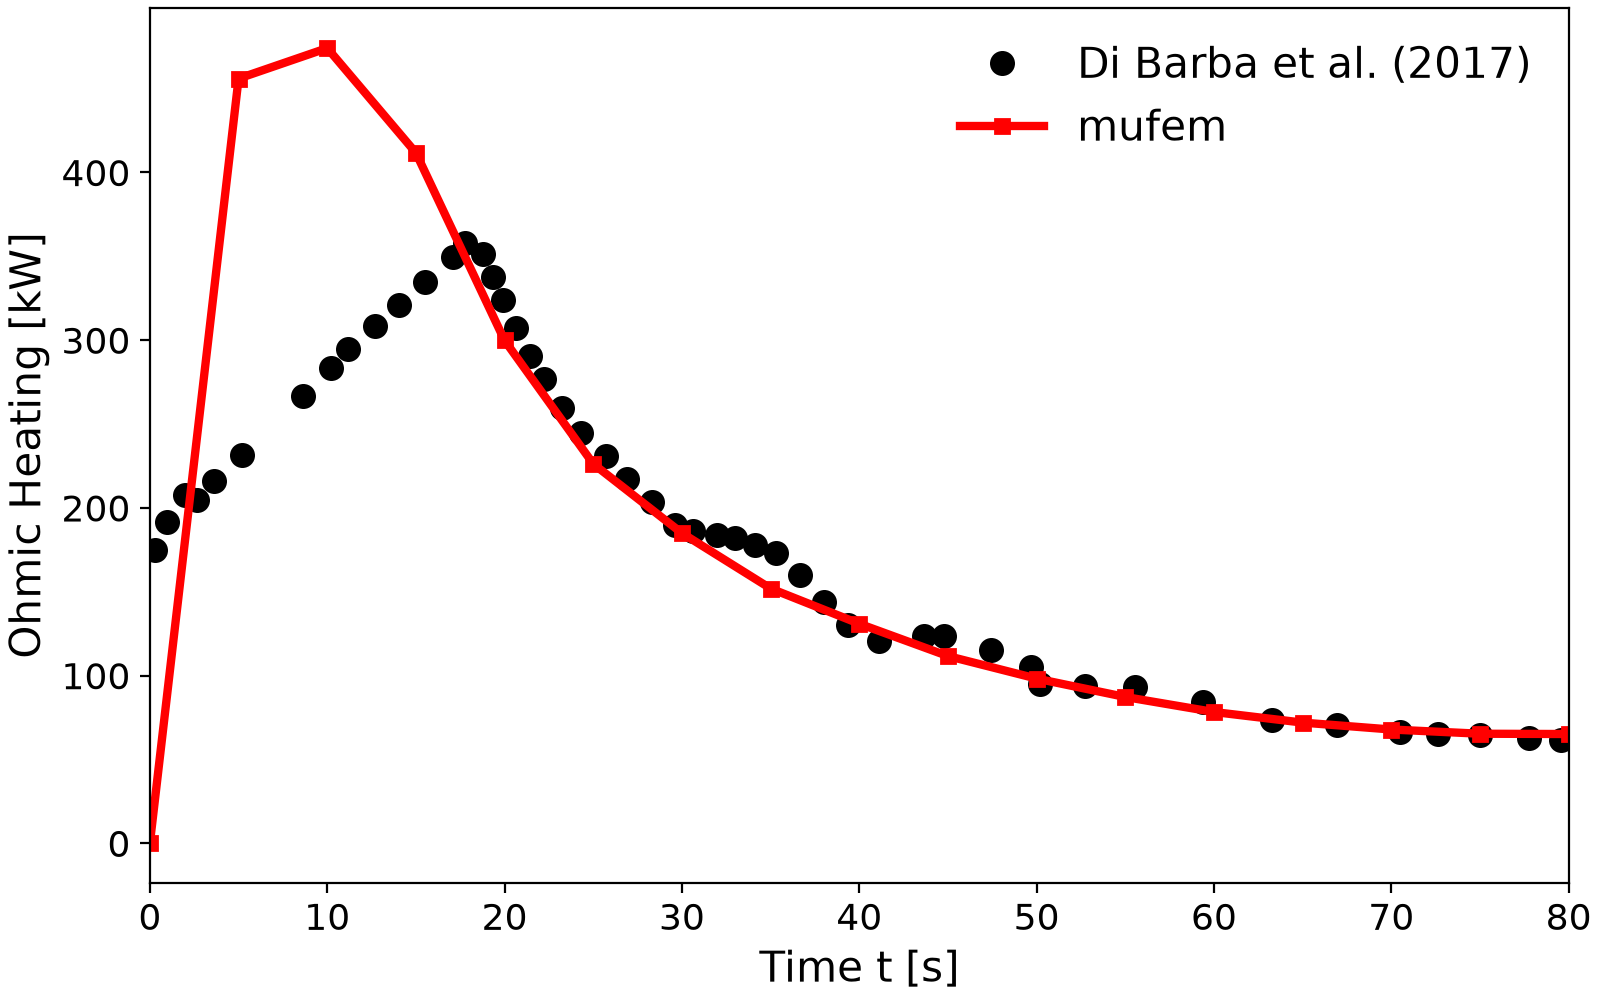
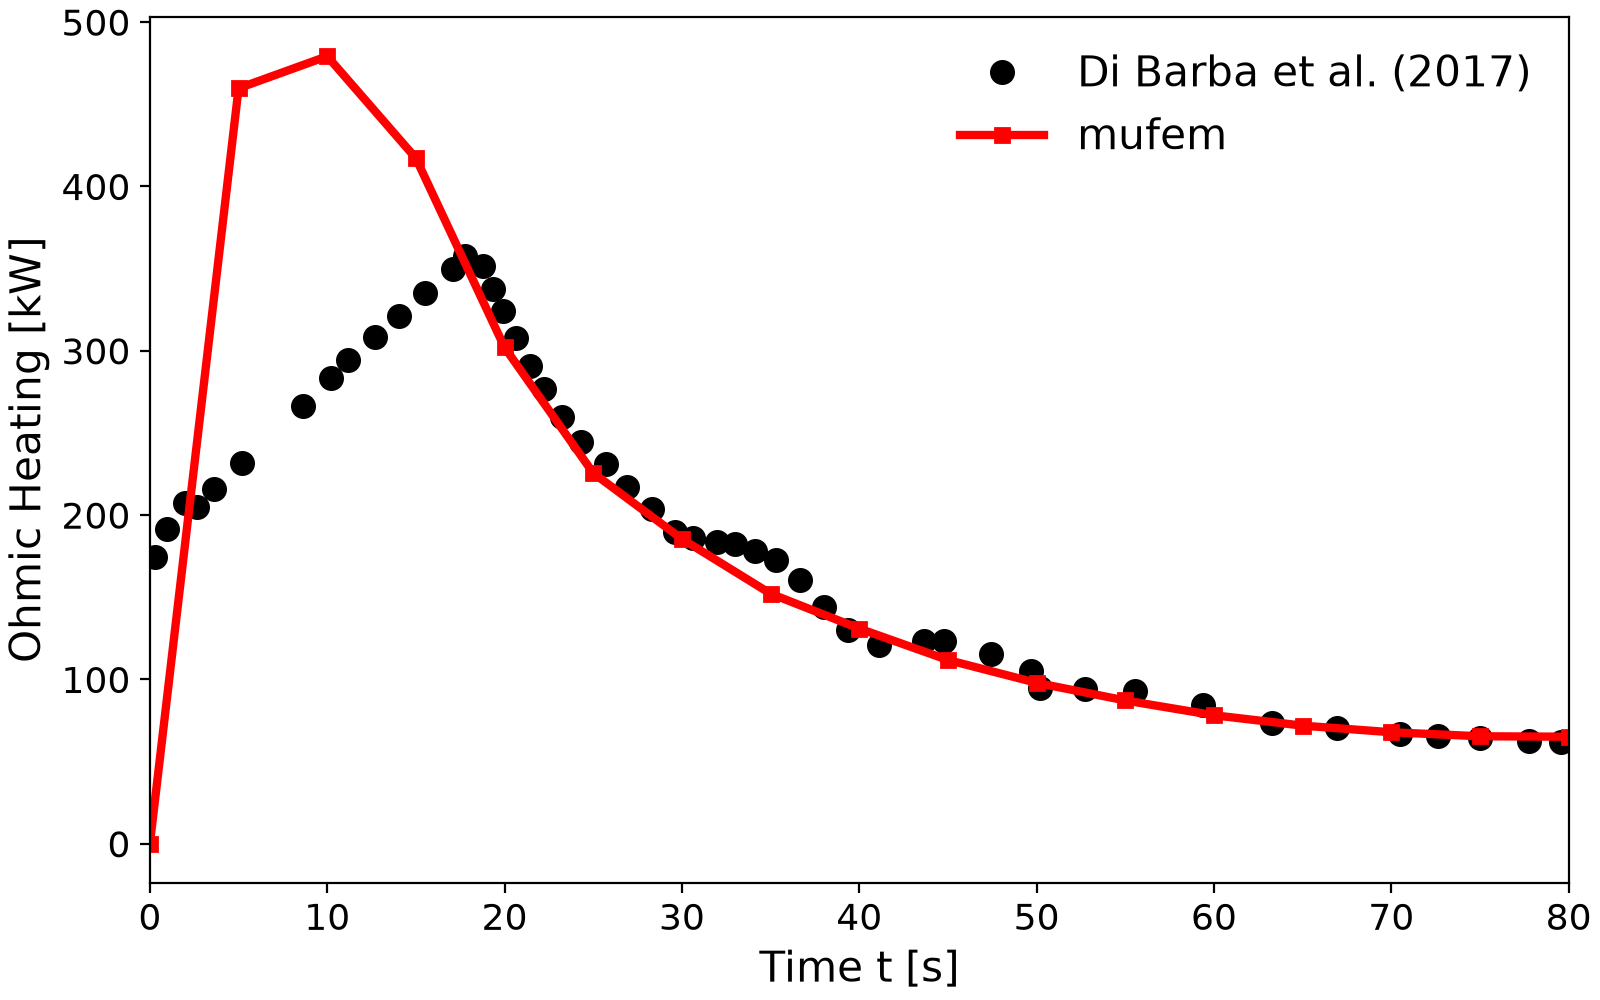
Load the Team36 mesh conforming to avoid the HFEM-107 crash

diff --git a/Electromagnetics/Compumag-Team36-Induction-Heating-Device/case.py b/Electromagnetics/Compumag-Team36-Induction-Heating-Device/case.py
@@ -129,11 +129,9 @@ class Team36InductionHeating(ValidationCase):
     def setup_case(self):
         sim = mufem.Simulation.New(name=self.name)
 
-        # De-refinement (used by the adaptive strategy) requires a nonconforming mesh.
-        nonconforming_options = mufem.NonConformingOption(
-            is_nonconforming=True, simplicies_nonconforming=True
-        )
-        sim.get_domain().load_mesh(f"{self.mesh_path}", nonconforming=nonconforming_options)
+        # Conforming: on a nonconforming mesh the time-harmonic magnetic solve crashes in
+        # HypreParMatrix::EliminateBC on some MPI process counts (HFEM-107).
+        sim.get_domain().load_mesh(f"{self.mesh_path}")
 
         billet_marker = "Billet" @ mufem.Vol
         air_marker = "Air" @ mufem.Vol

diff --git a/Electromagnetics/Compumag-Team36-Induction-Heating-Device/README.md b/Electromagnetics/Compumag-Team36-Induction-Heating-Device/README.md
@@ -40,7 +40,7 @@ $`9.50 \times 10^{-6}`$ to $`9.50 \times 10^{-7}`$, which we believe is a print 
 * Convection ($`h = 7\,\mathrm{W/m^2/K}`$) and radiation ($`\varepsilon = 0.8`$) on the billet surface,
   with $`70\,^{\circ}\mathrm{C}`$ ambient on the lateral surface and $`25\,^{\circ}\mathrm{C}`$ on the end
   surface.
-* The mesh is nonconforming to allow adaptive refinement/de-refinement of the heating front.
+* The mesh is refined once, at $`t = 45\,\mathrm{s}`$.
 
 ## Validation
 
